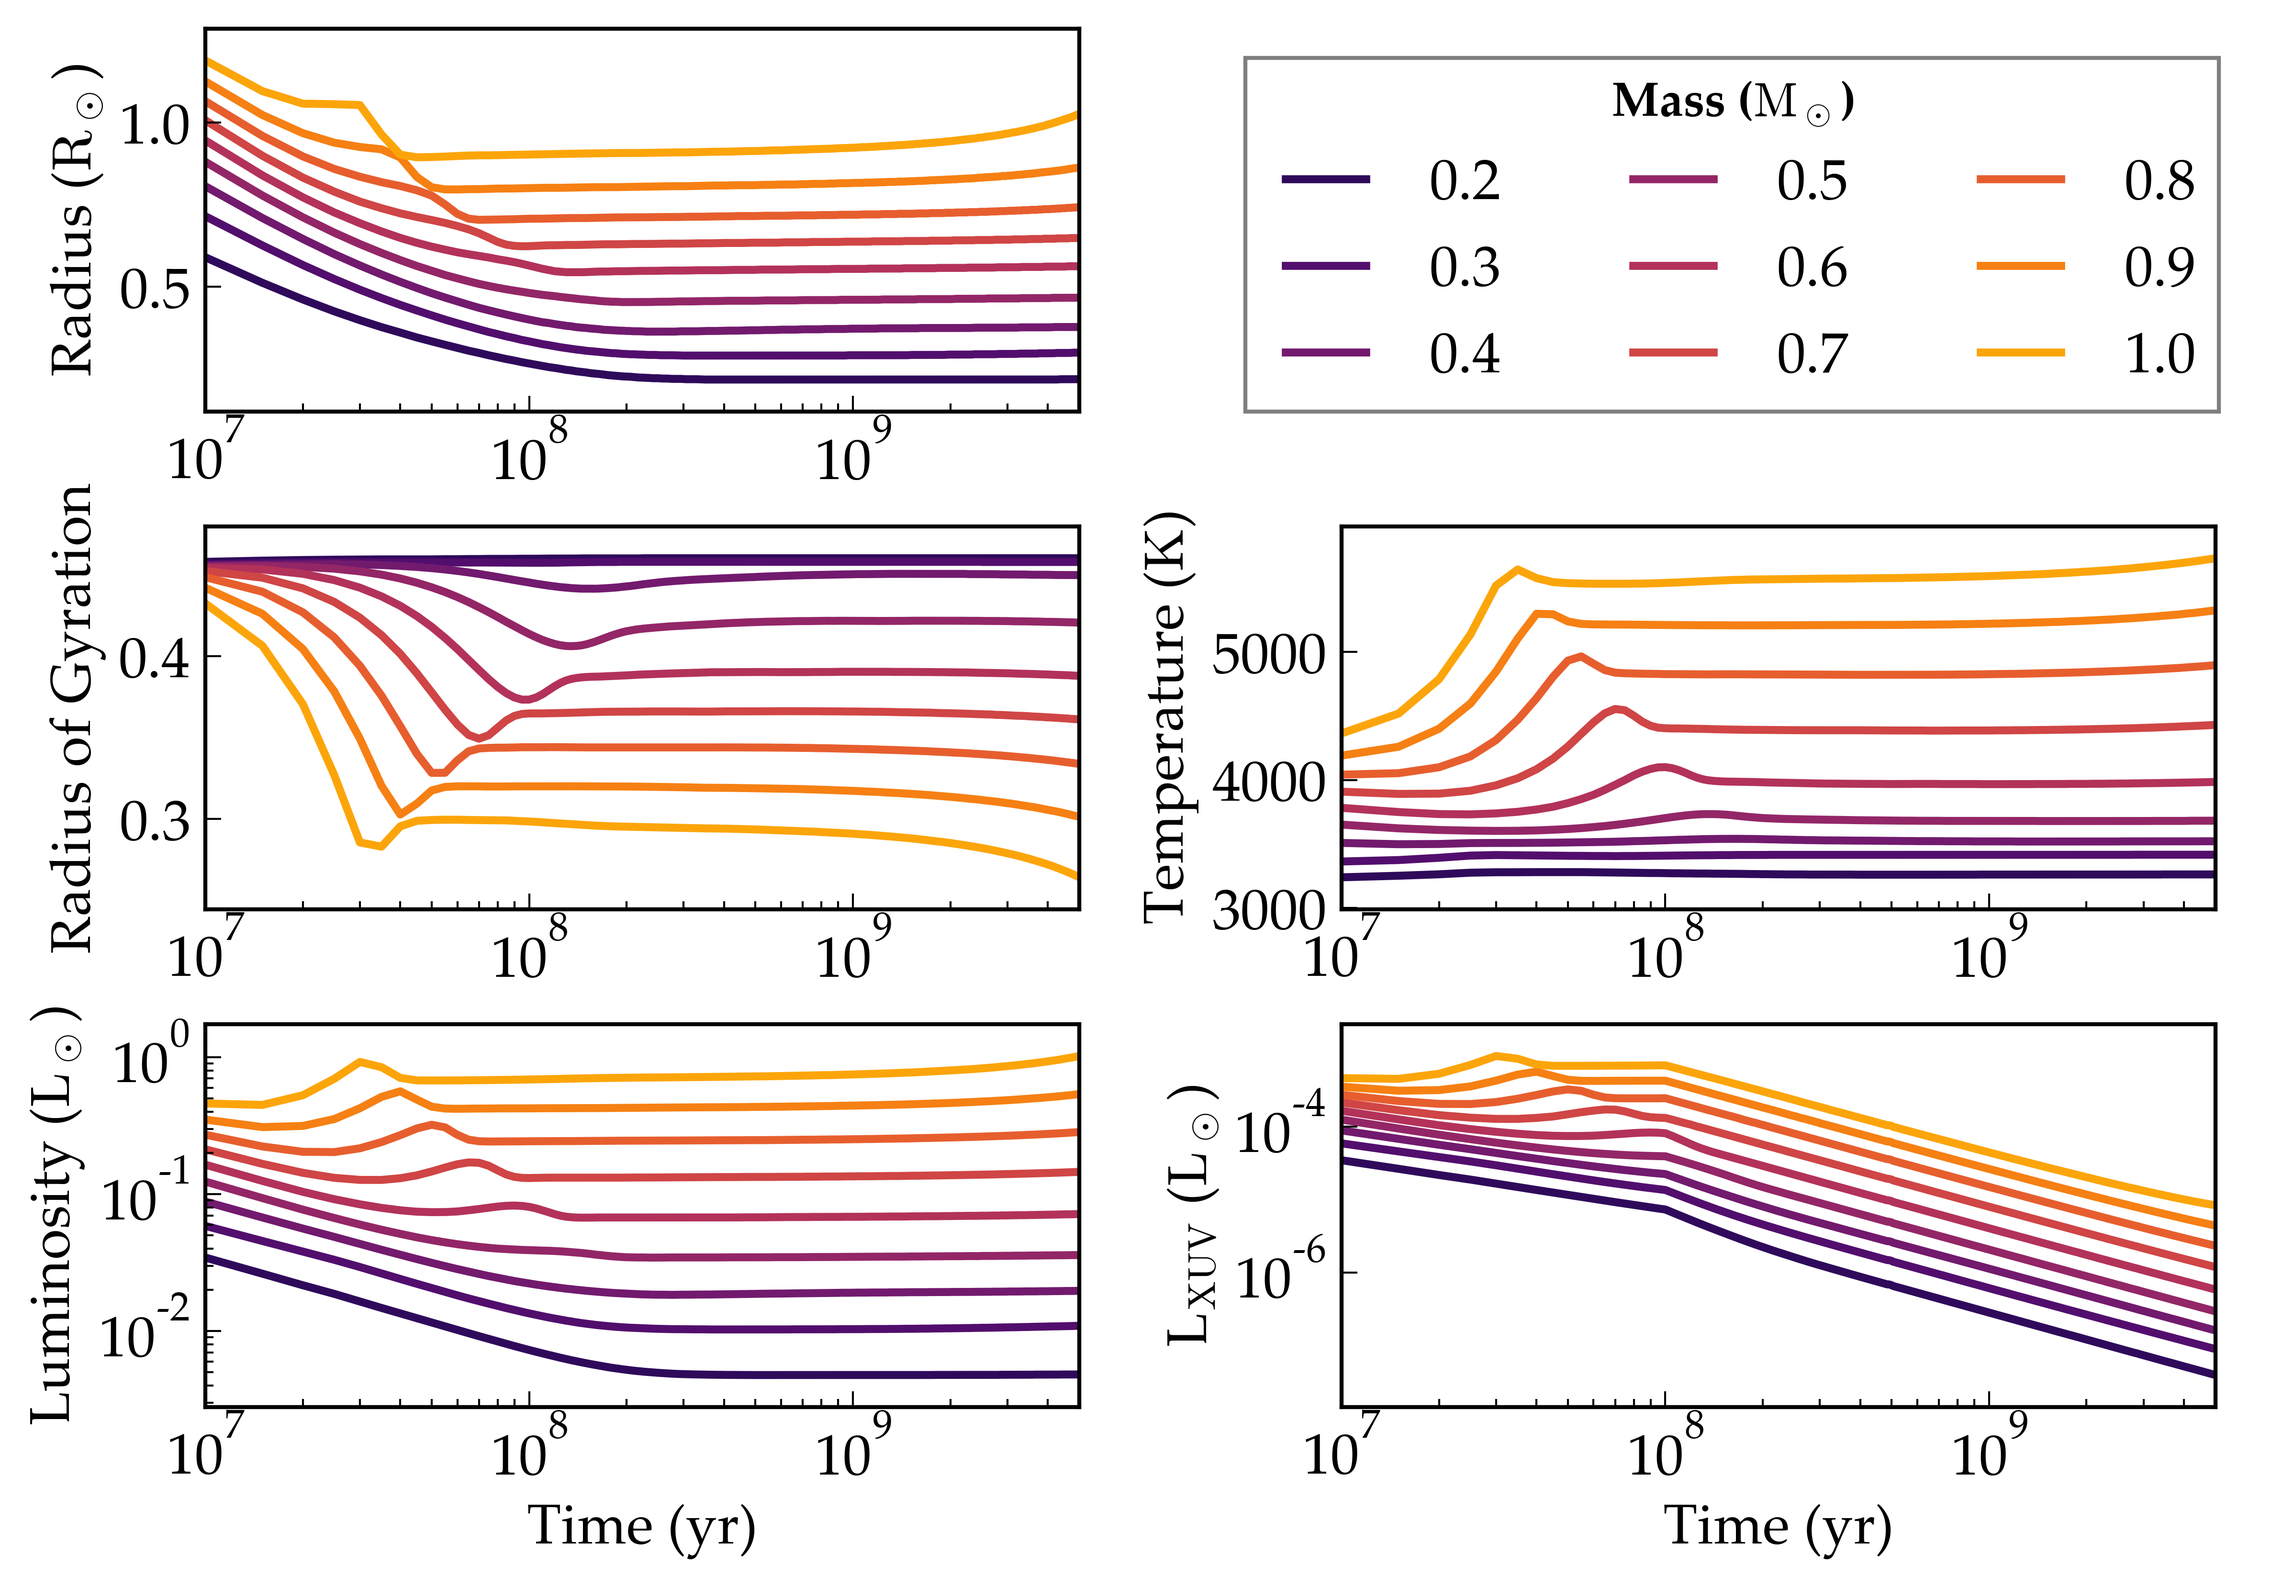
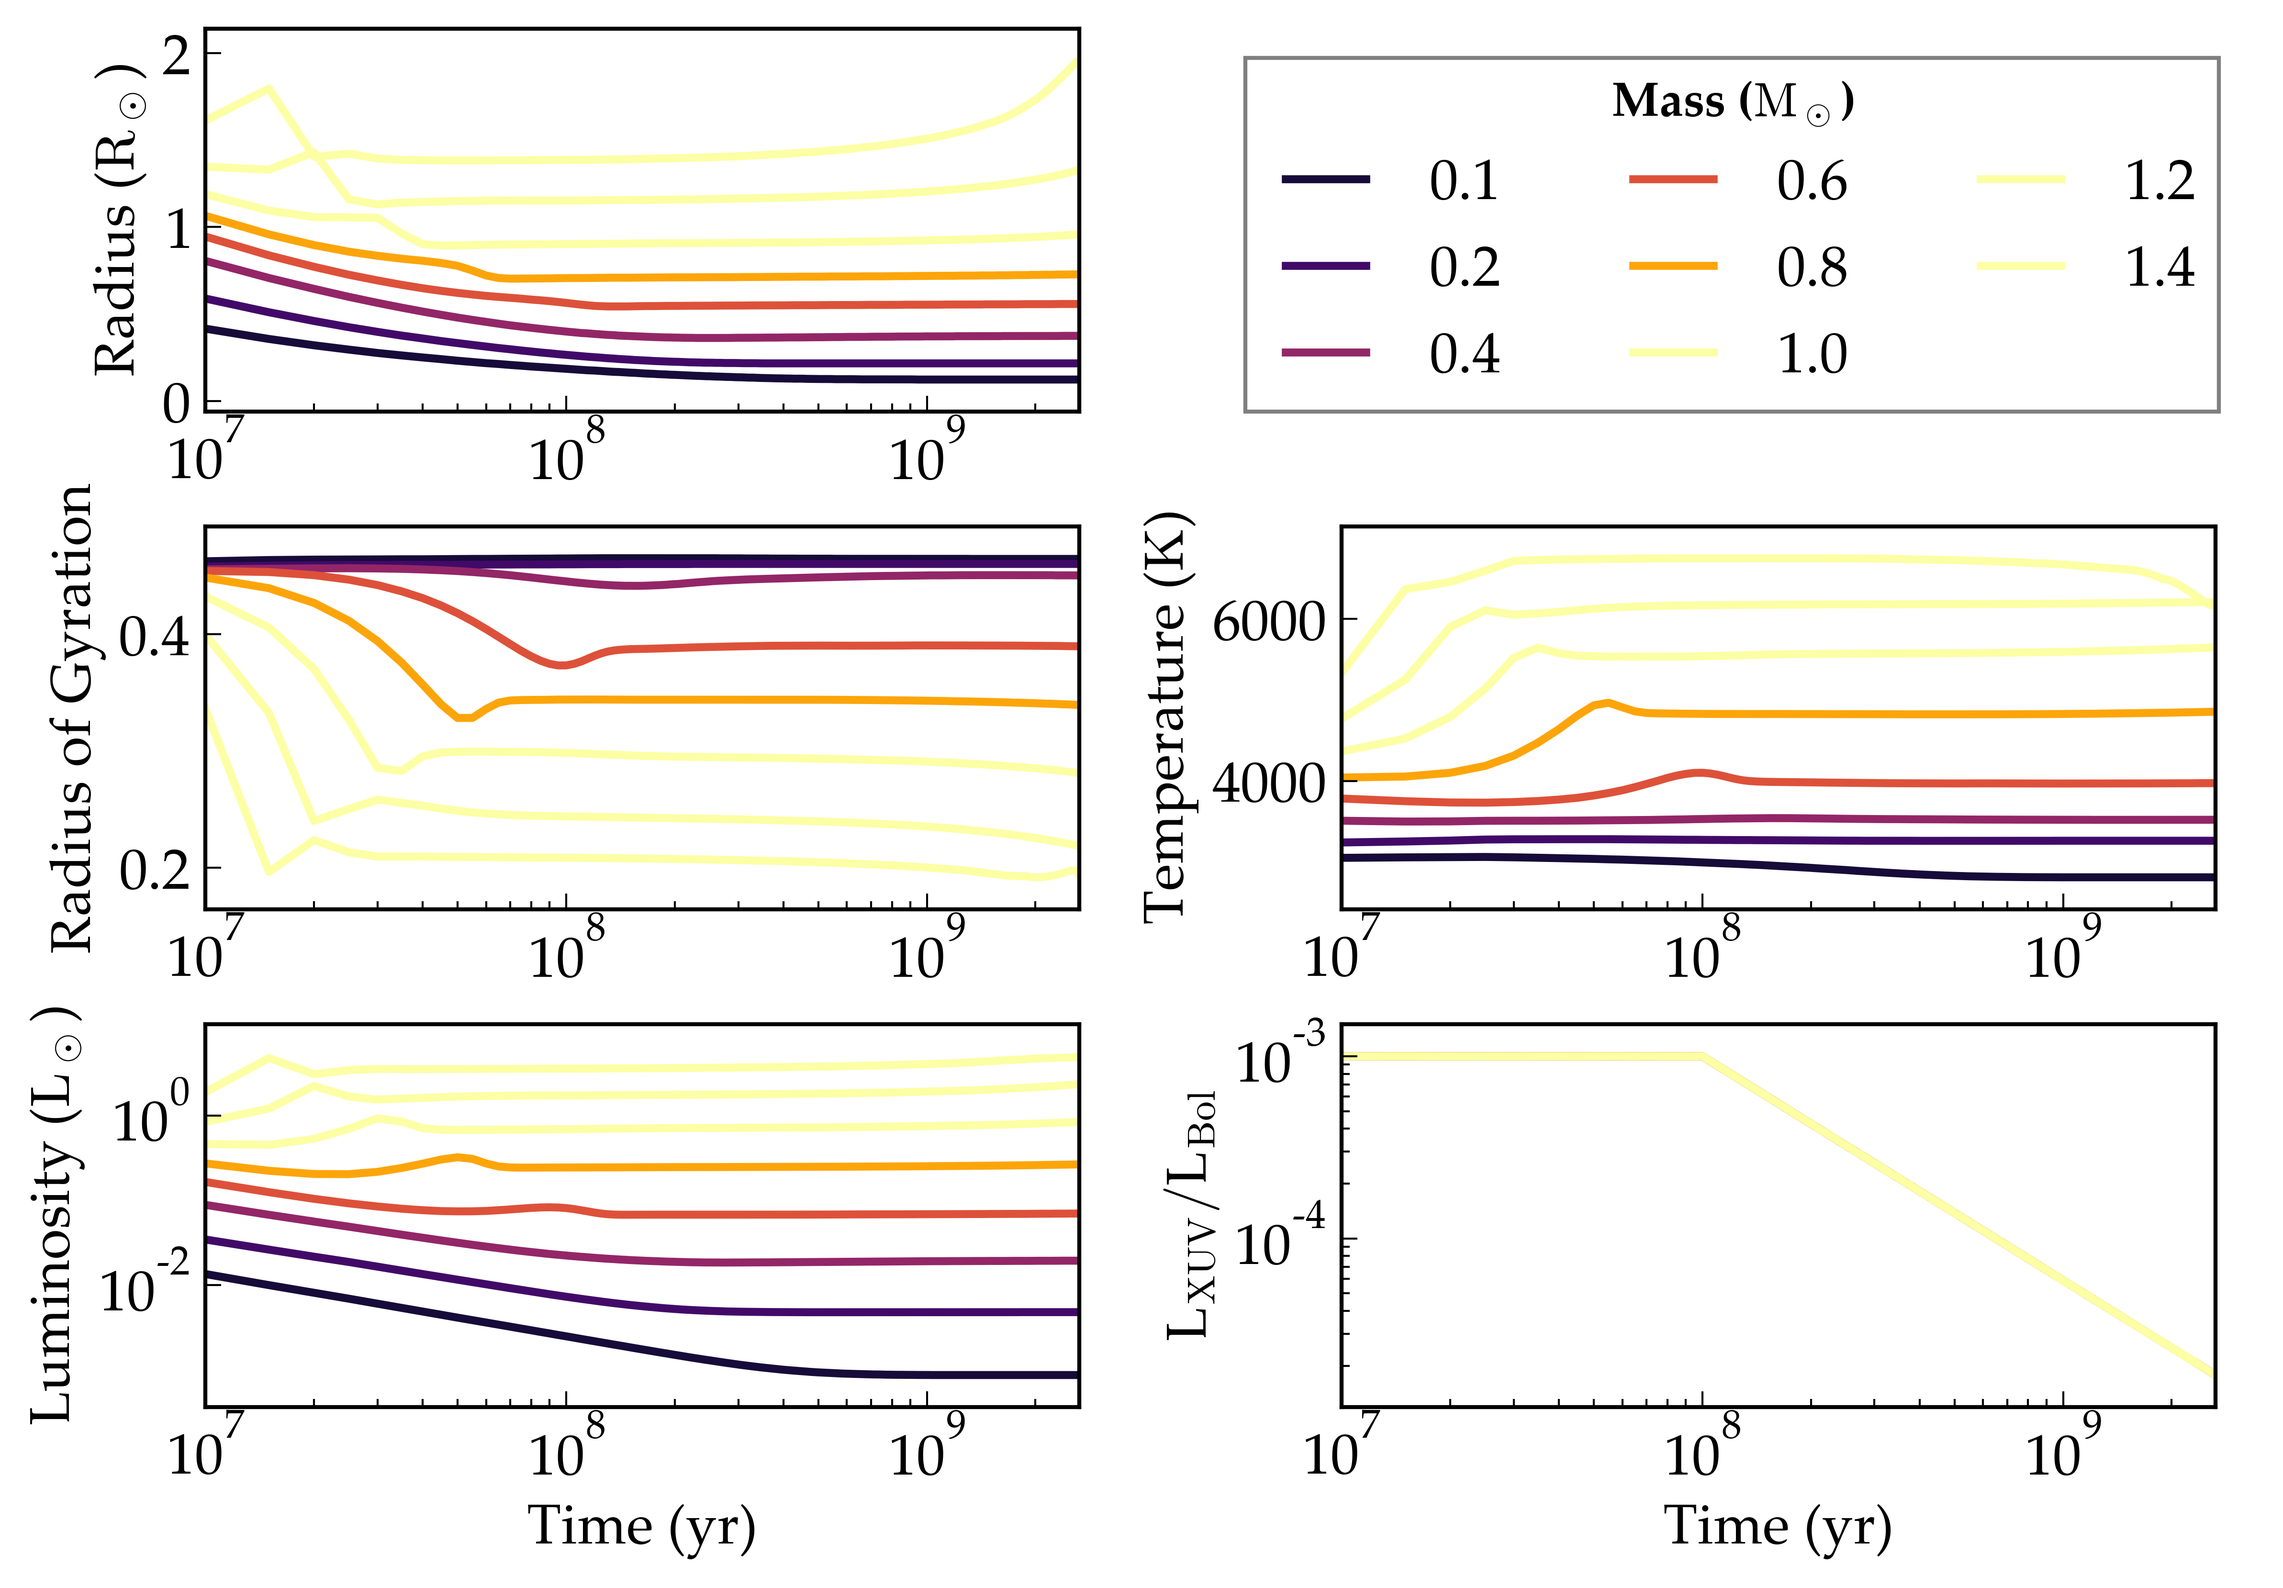
tweaking figure as per Rory's suggestions

diff --git a/examples/MainSequence/makeplot.py b/examples/MainSequence/makeplot.py
@@ -14,12 +14,12 @@ dAge                      1e7
 sStellarModel             baraffe
 dSatXUVFrac               1.e-3
 dSatXUVTime               -0.1
-saOutputOrder Age -Luminosity -Radius Temperature -RotPer -LXUVStellar RadGyra
+saOutputOrder Age -Luminosity -Radius Temperature -RotPer -LXUVTot RadGyra
 """
 
 system = """#
 sSystemName               system
-iVerbose                  0
+iVerbose                  5
 bOverwrite                1
 saBodyFiles               %s
 sUnitMass                 solar
@@ -61,7 +61,7 @@ def run(masses):
     radius = [output.bodies[n].Radius for n in range(len(masses))]
     temp = [output.bodies[n].Temperature for n in range(len(masses))]
     lum = [output.bodies[n].Luminosity for n in range(len(masses))]
-    lxuv = [output.bodies[n].LXUVStellar for n in range(len(masses))]
+    lxuv = [output.bodies[n].LXUVTot for n in range(len(masses))]
     prot = [output.bodies[n].RotPer for n in range(len(masses))]
     rg = [output.bodies[n].RadGyra for n in range(len(masses))]
     return age, radius, lum, lxuv, temp, prot, rg
@@ -80,22 +80,22 @@ if (sys.argv[1] != 'pdf' and sys.argv[1] != 'png'):
 fig, ax = pl.subplots(nrows=3, ncols=2, figsize=(10, 6))
 fig.subplots_adjust(right=0.825, wspace=0.30)
 
-masses = np.array([0.2, 0.3, 0.4, 0.5, 0.6, 0.7, 0.8, 0.9, 1.0])
+masses = np.array([0.1, 0.2, 0.4, 0.6, 0.8, 1.0])
 age, radius, lum, lxuv, temp, prot, rg = run(masses)
 
 for n, m in enumerate(masses):
     # Top row: radius, legend
-    ax[0, 0].plot(age, radius[n], label="%.1f" % m, color=cmap(0.8 * m))
+    ax[0, 0].plot(age, radius[n], label="%.1f" % m, color=cmap(m))
     # Dummy data for legend
-    ax[0, 1].plot([101], [100], label="%.1f" % m, color=cmap(0.8 * m))
+    ax[0, 1].plot([101], [100], label="%.1f" % m, color=cmap(m))
 
     # Middle row: rg, Teff
-    ax[1, 0].plot(age, rg[n], label="%.1f" % m, color=cmap(0.8 * m))
-    ax[1, 1].plot(age, temp[n], label="%.1f" % m, color=cmap(0.8 * m))
+    ax[1, 0].plot(age, rg[n], label="%.1f" % m, color=cmap(m))
+    ax[1, 1].plot(age, temp[n], label="%.1f" % m, color=cmap(m))
 
     # Bottom row: L, Lxuv
-    ax[2, 0].plot(age, lum[n], label="%.1f" % m, color=cmap(0.8 * m))
-    ax[2, 1].plot(age, lxuv[n], label="%.1f" % m, color=cmap(0.8 * m))
+    ax[2, 0].plot(age, lum[n], label="%.1f" % m, color=cmap(m))
+    ax[2, 1].plot(age, lxuv[n]/lum[n], label="%.1f" % m, color=cmap(m))
 
 for axis in ax.flatten():
     axis.set_xscale('log')
@@ -110,7 +110,7 @@ ax[0, 0].set_ylabel(r'Radius ($\mathrm{R}_\odot$)', fontsize=14)
 ax[1, 0].set_ylabel(r'Radius of Gyration', fontsize=14)
 ax[2, 0].set_ylabel(r'Luminosity ($\mathrm{L}_\odot$)', fontsize=14)
 ax[1, 1].set_ylabel(r'Temperature ($\mathrm{K}$)', fontsize=14)
-ax[2, 1].set_ylabel(r'L$_{\mathrm{XUV}}$ ($\mathrm{L}_\odot$)', fontsize=14)
+ax[2, 1].set_ylabel(r'L$_{\mathrm{XUV}}/$L$_{\mathrm{Bol}}$', fontsize=14)
 leg = ax[0, 1].legend(loc=(-0.11, 0.0), title='Mass ($\mathrm{M}_\odot$)',
                       ncol=3)
 leg.get_title().set_fontweight('bold')
